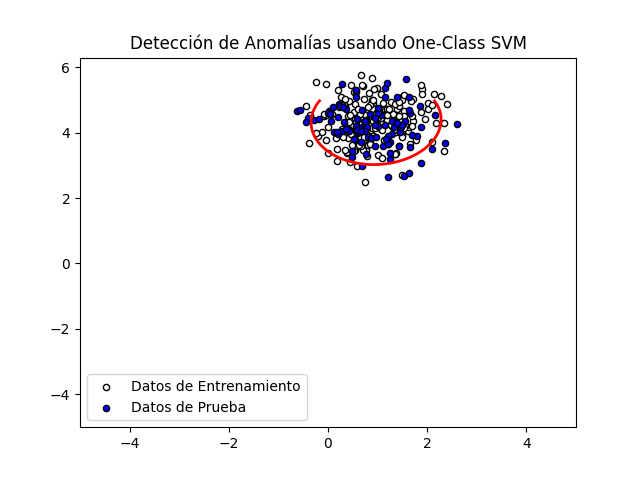
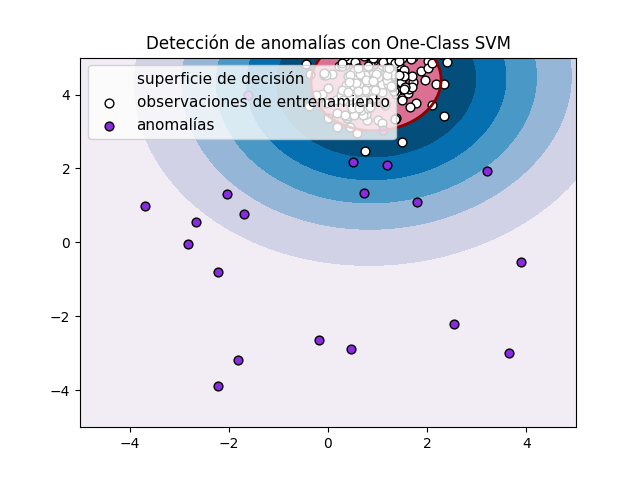
feat: Update anomaly detection visualization with One-Class SVM

diff --git a/5/main.py b/5/main.py
@@ -3,6 +3,7 @@ import matplotlib.pyplot as plt
 from sklearn import svm
 from sklearn.datasets import make_blobs
 from sklearn.metrics import classification_report, confusion_matrix
+import matplotlib
 
 # Generar un conjunto de datos sintéticos
 print("Generando un conjunto de datos sintéticos...")
@@ -15,6 +16,9 @@ X_train = X[:200]
 X_test = X[200:]
 print(f"Datos de entrenamiento: {X_train.shape[0]} muestras.")
 print(f"Datos de prueba: {X_test.shape[0]} muestras.")
+
+# Genera algunas anomalías regulares
+X_outliers = np.random.uniform(low=-4, high=4, size=(20, 2))
 
 # Entrenar un modelo One-Class SVM
 print("Entrenando el modelo One-Class SVM...")
@@ -52,18 +56,25 @@ print(confusion_matrix(y_true_test, y_pred_test))
 
 # Visualizar los resultados
 print("Visualizando los resultados...")
-plt.title("Detección de Anomalías usando One-Class SVM")
-plt.scatter(X_train[:, 0], X_train[:, 1], c='white', s=20, edgecolor='k', label="Datos de Entrenamiento")
-plt.scatter(X_test[:, 0], X_test[:, 1], c='blue', s=20, edgecolor='k', label="Datos de Prueba")
-
-# Dibujar el límite de decisión
-print("Dibujando el límite de decisión...")
+plt.title("Detección de anomalías con One-Class SVM")
 xx, yy = np.meshgrid(np.linspace(-5, 5, 500), np.linspace(-5, 5, 500))
 Z = clf.decision_function(np.c_[xx.ravel(), yy.ravel()])
 Z = Z.reshape(xx.shape)
-plt.contour(xx, yy, Z, levels=[0], linewidths=2, colors='red')
 
-plt.legend()
-# Guardar la visualización en un archivo de imagen
+plt.contourf(xx, yy, Z, levels=np.linspace(Z.min(), 0, 7), cmap=plt.cm.PuBu)
+a = plt.contour(xx, yy, Z, levels=[0], linewidths=2, colors='darkred')
+plt.contourf(xx, yy, Z, levels=[0, Z.max()], colors='palevioletred')
+
+s = 40
+b1 = plt.scatter(X_train[:, 0], X_train[:, 1], c='white', s=s, edgecolors='k')
+b2 = plt.scatter(X_outliers[:, 0], X_outliers[:, 1], c='blueviolet', s=s, edgecolors='k')
+plt.axis('tight')
+plt.xlim((-5, 5))
+plt.ylim((-5, 5))
+plt.legend([a.collections[0], b1, b2],
+           ["superficie de decisión", "observaciones de entrenamiento",
+            "anomalías"],
+           loc="upper left",
+           prop=matplotlib.font_manager.FontProperties(size=11))
 plt.savefig("one_class_svm_anomalies.png")
 print("Visualización guardada en 'one_class_svm_anomalies.png'.")
